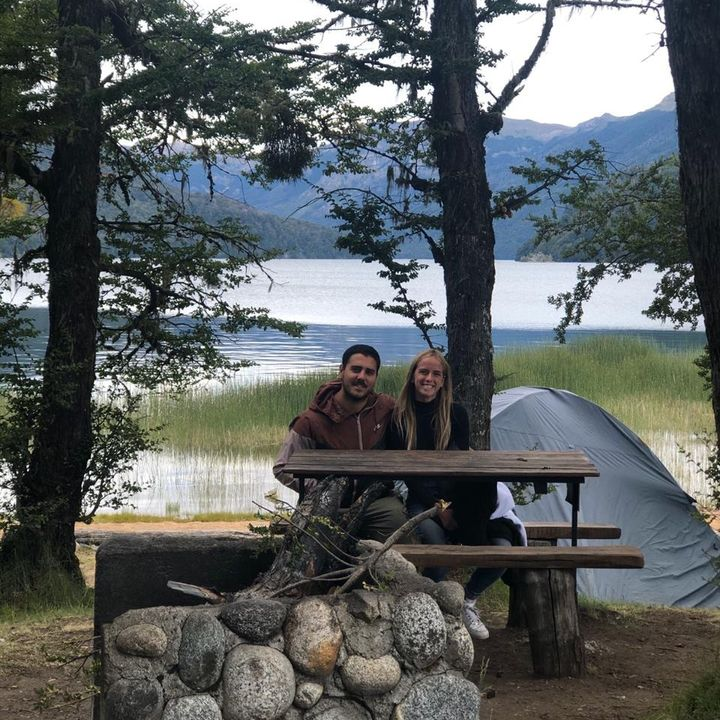
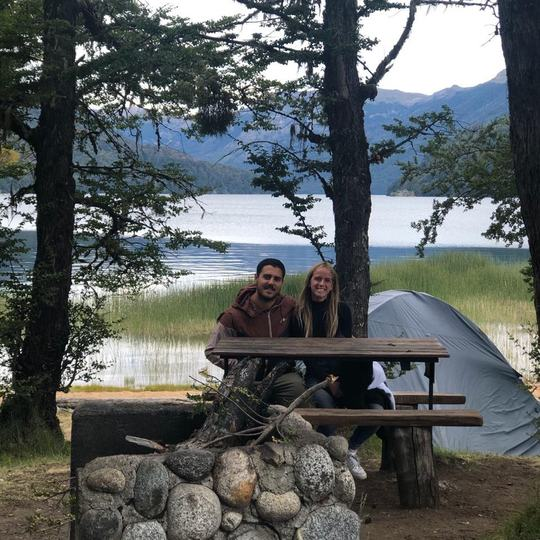
Más velocidad: fotos al tamaño justo (de 2,9 a 1,7 MB), portada con prioridad alta, fondo mientras cargan; ícono A&C
Claude-Session: https://claude.ai/code/session_01WwwJWB12zEvMG3mowUnxyE

diff --git a/index.html b/index.html
@@ -219,7 +219,7 @@
       margin-inline:calc((100% - min(1080px,calc(100vw - 48px)))/2);
     }
   }
-  .fotos-grid img{display:block;width:100%;aspect-ratio:1;object-fit:cover}
+  .fotos-grid img{display:block;width:100%;aspect-ratio:1;object-fit:cover;background:var(--sand)} /* fondo mientras carga */
   .fotos-grid .grande{grid-column:span 2;grid-row:span 2;height:100%}
 
   footer{text-align:center;padding:60px 0 80px;font-style:italic;font-size:19px;color:var(--ink-soft)}
@@ -274,7 +274,7 @@
         <img src="fotos/foto-01.jpg" alt="Agustín y Cande en un mirador, con el lago y las montañas de fondo" data-i18n-alt="alt.foto01" decoding="async" fetchpriority="low">
       </div>
       <div class="postcard-paper">
-        <img src="fotos/foto-02.jpg" alt="Agustín y Cande en la orilla del lago; Cande muestra el anillo" data-i18n-alt="alt.foto02" width="1600" height="960">
+        <img src="fotos/foto-02.jpg" alt="Agustín y Cande en la orilla del lago; Cande muestra el anillo" data-i18n-alt="alt.foto02" width="1200" height="720" fetchpriority="high">
       </div>
     </div>
 
@@ -380,28 +380,28 @@
   <section id="fotos">
     <h2 class="sec-title reveal" data-i18n="fotos.titulo">Nosotros</h2>
     <div class="fotos-grid reveal reveal-d1">
-      <img class="grande" src="fotos/foto-03.jpg" alt="En la playa, al atardecer" data-i18n-alt="alt.foto03" loading="lazy">
-      <img src="fotos/foto-04.jpg" alt="En la orilla del mar" data-i18n-alt="alt.foto04" loading="lazy">
-      <img src="fotos/foto-05.jpg" alt="En la playa, con un cachorro negro" data-i18n-alt="alt.foto05" loading="lazy">
-      <img src="fotos/foto-06.jpg" alt="En un balcón frente al mar, con el cachorro en brazos" data-i18n-alt="alt.foto06" loading="lazy">
-      <img src="fotos/foto-07.jpg" alt="Sentados en el deck de una casa de madera, con el perro" data-i18n-alt="alt.foto07" loading="lazy">
-      <img src="fotos/foto-08.jpg" alt="Frente a la Torre Eiffel, en blanco y negro" data-i18n-alt="alt.foto08" loading="lazy">
-      <img src="fotos/foto-09.jpg" alt="París de noche, desde lo alto" data-i18n-alt="alt.foto09" loading="lazy">
-      <img src="fotos/foto-10.jpg" alt="Frente a la Sagrada Familia" data-i18n-alt="alt.foto10" loading="lazy">
-      <img src="fotos/foto-11.jpg" alt="Frente a la torre de televisión de Berlín" data-i18n-alt="alt.foto11" loading="lazy">
-      <img src="fotos/foto-12.jpg" alt="En el aeropuerto, listos para viajar" data-i18n-alt="alt.foto12" loading="lazy">
-      <img src="fotos/foto-13.jpg" alt="Bajo las palmeras" data-i18n-alt="alt.foto13" loading="lazy">
-      <img src="fotos/foto-14.jpg" alt="Esquiando, con casco y antiparras" data-i18n-alt="alt.foto14" loading="lazy">
-      <img src="fotos/foto-15.jpg" alt="En lo alto de la pista de esquí, con el lago de fondo" data-i18n-alt="alt.foto15" loading="lazy">
-      <img class="grande" src="fotos/foto-16.jpg" alt="Agustín y Cande en un mirador, con el lago y las montañas de fondo" data-i18n-alt="alt.foto16" loading="lazy">
-      <img src="fotos/foto-17.jpg" alt="Acampando junto a un lago" data-i18n-alt="alt.foto17" loading="lazy">
-      <img src="fotos/foto-18.jpg" alt="Junto a un lago entre montañas" data-i18n-alt="alt.foto18" loading="lazy">
-      <img src="fotos/foto-19.jpg" alt="Una noche en el jardín, con una copa de vino" data-i18n-alt="alt.foto19" loading="lazy">
-      <img src="fotos/foto-20.jpg" alt="Abrazados frente a una pared iluminada" data-i18n-alt="alt.foto20" loading="lazy">
-      <img src="fotos/foto-21.jpg" alt="En un jardín, vestidos para una fiesta" data-i18n-alt="alt.foto21" loading="lazy">
-      <img src="fotos/foto-22.jpg" alt="Frente a una casa con techo de tejas" data-i18n-alt="alt.foto22" loading="lazy">
-      <img src="fotos/foto-23.jpg" alt="En la costa, con el mar de fondo" data-i18n-alt="alt.foto23" loading="lazy">
-      <img src="fotos/foto-24.jpg" alt="Sus manos con el anillo, frente al lago" data-i18n-alt="alt.foto24" loading="lazy">
+      <img class="grande" src="fotos/foto-03.jpg" alt="En la playa, al atardecer" data-i18n-alt="alt.foto03" loading="lazy" decoding="async">
+      <img src="fotos/foto-04.jpg" alt="En la orilla del mar" data-i18n-alt="alt.foto04" loading="lazy" decoding="async">
+      <img src="fotos/foto-05.jpg" alt="En la playa, con un cachorro negro" data-i18n-alt="alt.foto05" loading="lazy" decoding="async">
+      <img src="fotos/foto-06.jpg" alt="En un balcón frente al mar, con el cachorro en brazos" data-i18n-alt="alt.foto06" loading="lazy" decoding="async">
+      <img src="fotos/foto-07.jpg" alt="Sentados en el deck de una casa de madera, con el perro" data-i18n-alt="alt.foto07" loading="lazy" decoding="async">
+      <img src="fotos/foto-08.jpg" alt="Frente a la Torre Eiffel, en blanco y negro" data-i18n-alt="alt.foto08" loading="lazy" decoding="async">
+      <img src="fotos/foto-09.jpg" alt="París de noche, desde lo alto" data-i18n-alt="alt.foto09" loading="lazy" decoding="async">
+      <img src="fotos/foto-10.jpg" alt="Frente a la Sagrada Familia" data-i18n-alt="alt.foto10" loading="lazy" decoding="async">
+      <img src="fotos/foto-11.jpg" alt="Frente a la torre de televisión de Berlín" data-i18n-alt="alt.foto11" loading="lazy" decoding="async">
+      <img src="fotos/foto-12.jpg" alt="En el aeropuerto, listos para viajar" data-i18n-alt="alt.foto12" loading="lazy" decoding="async">
+      <img src="fotos/foto-13.jpg" alt="Bajo las palmeras" data-i18n-alt="alt.foto13" loading="lazy" decoding="async">
+      <img src="fotos/foto-14.jpg" alt="Esquiando, con casco y antiparras" data-i18n-alt="alt.foto14" loading="lazy" decoding="async">
+      <img src="fotos/foto-15.jpg" alt="En lo alto de la pista de esquí, con el lago de fondo" data-i18n-alt="alt.foto15" loading="lazy" decoding="async">
+      <img class="grande" src="fotos/foto-16.jpg" alt="Agustín y Cande en un mirador, con el lago y las montañas de fondo" data-i18n-alt="alt.foto16" loading="lazy" decoding="async">
+      <img src="fotos/foto-17.jpg" alt="Acampando junto a un lago" data-i18n-alt="alt.foto17" loading="lazy" decoding="async">
+      <img src="fotos/foto-18.jpg" alt="Junto a un lago entre montañas" data-i18n-alt="alt.foto18" loading="lazy" decoding="async">
+      <img src="fotos/foto-19.jpg" alt="Una noche en el jardín, con una copa de vino" data-i18n-alt="alt.foto19" loading="lazy" decoding="async">
+      <img src="fotos/foto-20.jpg" alt="Abrazados frente a una pared iluminada" data-i18n-alt="alt.foto20" loading="lazy" decoding="async">
+      <img src="fotos/foto-21.jpg" alt="En un jardín, vestidos para una fiesta" data-i18n-alt="alt.foto21" loading="lazy" decoding="async">
+      <img src="fotos/foto-22.jpg" alt="Frente a una casa con techo de tejas" data-i18n-alt="alt.foto22" loading="lazy" decoding="async">
+      <img src="fotos/foto-23.jpg" alt="En la costa, con el mar de fondo" data-i18n-alt="alt.foto23" loading="lazy" decoding="async">
+      <img src="fotos/foto-24.jpg" alt="Sus manos con el anillo, frente al lago" data-i18n-alt="alt.foto24" loading="lazy" decoding="async">
     </div>
   </section>
 

diff --git a/CLAUDE.md b/CLAUDE.md
@@ -4,7 +4,7 @@ This file provides guidance to Claude Code (claude.ai/code) when working with co
 
 ## What this is
 
-Static wedding invitation site, started as a template with `{{PLACEHOLDER}}`s and filler photos; the couple's details and photos are now filled in (only the favicons are still filler). The site is a single `index.html` (inline CSS and JS) plus static assets: photos in `fotos/` (the hero postcard uses `fotos/foto-02.jpg`, its back `fotos/foto-01.jpg`) and the favicon PNGs. No build step, no dependencies, no framework, no tests. All content is in Spanish (Argentine voseo) — keep that tone in any copy changes. Guests will open this mostly on phones — design and verify mobile-first (occasionally desktop).
+Static wedding invitation site, started as a template with `{{PLACEHOLDER}}`s and filler photos; the couple's details, photos and favicons are now filled in. The site is a single `index.html` (inline CSS and JS) plus static assets: photos in `fotos/` (the hero postcard uses `fotos/foto-02.jpg`, its back `fotos/foto-01.jpg`) and the favicon PNGs. No build step, no dependencies, no framework, no tests. All content is in Spanish (Argentine voseo) — keep that tone in any copy changes. Guests will open this mostly on phones — design and verify mobile-first (occasionally desktop).
 
 ### Placeholders
 
@@ -21,7 +21,7 @@ One page, sections in order: hero (postcard photo + date) → countdown → agen
 
 ### Photos
 
-`fotos/foto-01.jpg` to `foto-24.jpg`. 01/02 are the hero postcard (back/front, landscape 1600×960, the front `img` carries `width`/`height`; tapping the postcard lifts it to show the back). 03–24 are the photo grid, all visible at once with no click (the couple asked for no tap-to-reveal): 2 columns on phones, 4 from 641px. Images with `class="grande"` (03 and 16, 1080×1080) span 2×2; the rest are 720×720 squares. Keep a multiple of 4 small photos between big ones and after the last one, or the grid gets holes. Alt texts describe each photo: Spanish in the markup, English in `I18N_EN` (keys `alt.fotoNN`). The README has the slot table.
+`fotos/foto-01.jpg` to `foto-24.jpg`. 01/02 are the hero postcard (back/front, landscape 1200×720, the front `img` carries `width`/`height` and `fetchpriority="high"` since it is the first thing on screen; tapping the postcard lifts it to show the back). 03–24 are the photo grid, all visible at once with no click (the couple asked for no tap-to-reveal): 2 columns on phones, 4 from 641px. Images with `class="grande"` (03 and 16, 1080×1080) span 2×2; the rest are 540×540 squares. Those sizes are deliberate (enough for 2–3x screens, light on mobile data: JPEG q76, progressive, no EXIF); keep them when swapping a photo. Keep a multiple of 4 small photos between big ones and after the last one, or the grid gets holes. Alt texts describe each photo: Spanish in the markup, English in `I18N_EN` (keys `alt.fotoNN`). The README has the slot table.
 
 ### English version (`?lang=en`)
 
@@ -42,5 +42,4 @@ One form per person — guests with a +1 are asked to have them submit their own
 
 ## Known pending work (from README)
 
-- Replace the filler favicons (`favicon.png`, `apple-touch-icon.png`)
 - Create the Google Sheet + Apps Script and set `SHEET_URL`

diff --git a/README.md b/README.md
@@ -36,13 +36,13 @@ Para cambiar una foto, reemplazar el archivo de `fotos/` manteniendo el nombre. 
 
 | Archivo | Dónde |
 |---|---|
-| `foto-01.jpg` | dorso de la postal del hero (se ve al tocarla), apaisada 1600×960 |
-| `foto-02.jpg` | frente de la postal, apaisada 1600×960 (si cambia la proporción, actualizar `width`/`height` del `img`) |
+| `foto-01.jpg` | dorso de la postal del hero (se ve al tocarla), apaisada 1200×720 |
+| `foto-02.jpg` | frente de la postal, apaisada 1200×720 (si cambia la proporción, actualizar `width`/`height` del `img`) |
 | `foto-03.jpg` … `foto-24.jpg` | grilla "Nosotros", en orden: 22 fotos a la vista, una por recuadro, sin clic |
 
-La grilla tiene 2 columnas en el celu y 4 desde 641px. Las fotos con `class="grande"` (hoy la 03 y la 16, de 1080×1080) ocupan 2×2; las demás son de 720×720. Para que la grilla cierre sin huecos, entre una grande y la siguiente, y después de la última, tiene que haber una cantidad de fotos chicas múltiplo de 4 (hoy: grande, 12 chicas, grande, 8 chicas).
+La grilla tiene 2 columnas en el celu y 4 desde 641px. Las fotos con `class="grande"` (hoy la 03 y la 16, de 1080×1080) ocupan 2×2; las demás son de 540×540. Esos tamaños alcanzan para pantallas de alta densidad y mantienen el sitio liviano (JPEG calidad 76, progresivo, sin metadatos): si se cambia una foto, conviene respetarlos. Para que la grilla cierre sin huecos, entre una grande y la siguiente, y después de la última, tiene que haber una cantidad de fotos chicas múltiplo de 4 (hoy: grande, 12 chicas, grande, 8 chicas).
 
-`og-image.jpg` (1200×630, la vista previa al compartir el link) sale de la foto de portada. Siguen de relleno `favicon.png` (512×512) y `apple-touch-icon.png` (180×180).
+`og-image.jpg` (1200×630, la vista previa al compartir el link) sale de la foto de portada. `favicon.png` (192×192) y `apple-touch-icon.png` (180×180) son el monograma "A&C" en Cormorant Garamond sobre el azul de la paleta.
 
 ## Secciones
 Cuenta regresiva · Agenda con mapas · RSVP (un form por persona) · Regalos (dos alias, pesos y dólares) · Fotos
@@ -59,7 +59,7 @@ Vercel, sitio estático sin build. Importar el repo de GitHub como proyecto nuev
 ## Pendientes
 - [ ] Completar todos los `{{PLACEHOLDER}}` (ver arriba)
 - [x] Reemplazar las fotos de relleno y `og-image.jpg`
-- [ ] Reemplazar `favicon.png` y `apple-touch-icon.png`
+- [x] Reemplazar `favicon.png` y `apple-touch-icon.png`
 - [x] Describir los `alt` de las fotos (español e inglés)
 - [ ] Crear la planilla + Apps Script y pegar la URL en `SHEET_URL`
 - [x] Crear el proyecto en Vercel y conectarlo al repo
